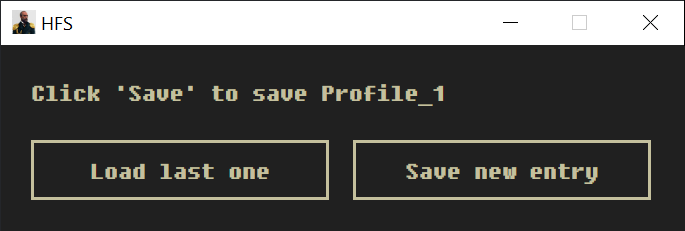
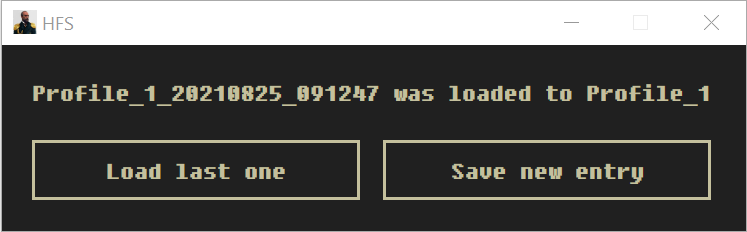
fix: change app width

diff --git a/frontend/src/index.css b/frontend/src/index.css
@@ -23,6 +23,7 @@ body {
 
 .app {
   padding: 2rem;
+  width: 49.6rem;
   user-select: none;
 }
 
@@ -60,7 +61,7 @@ body {
   outline: none;
   padding: 0 2rem;
   transition: background-color, color ease-in-out 150ms;
-  width: 20rem;
+  width: 22rem;
 }
 
 .primaryButton:disabled {

diff --git a/main.go b/main.go
@@ -23,7 +23,7 @@ func startApp(c *core.Control) {
 		JS:     js,
 		Title:  "HFS",
 		Height: 124,
-		Width:  456,
+		Width:  496,
 	})
 	app.Bind(c)
 	app.Run()

diff --git a/README.md b/README.md
@@ -1,6 +1,6 @@
 # HighFleet Saver
 
-<img src="image.png" width="456">
+<img src="image.png" width="496">
 
 [HighFleet](https://store.steampowered.com/app/1434950/HighFleet) is a unique action-strategy game mixing arcade combat, exploration, management and diplomacy.
 However, the save system is inconvenient. The game allows you to do it only at certain rare points. Use this utility to save your progress.
